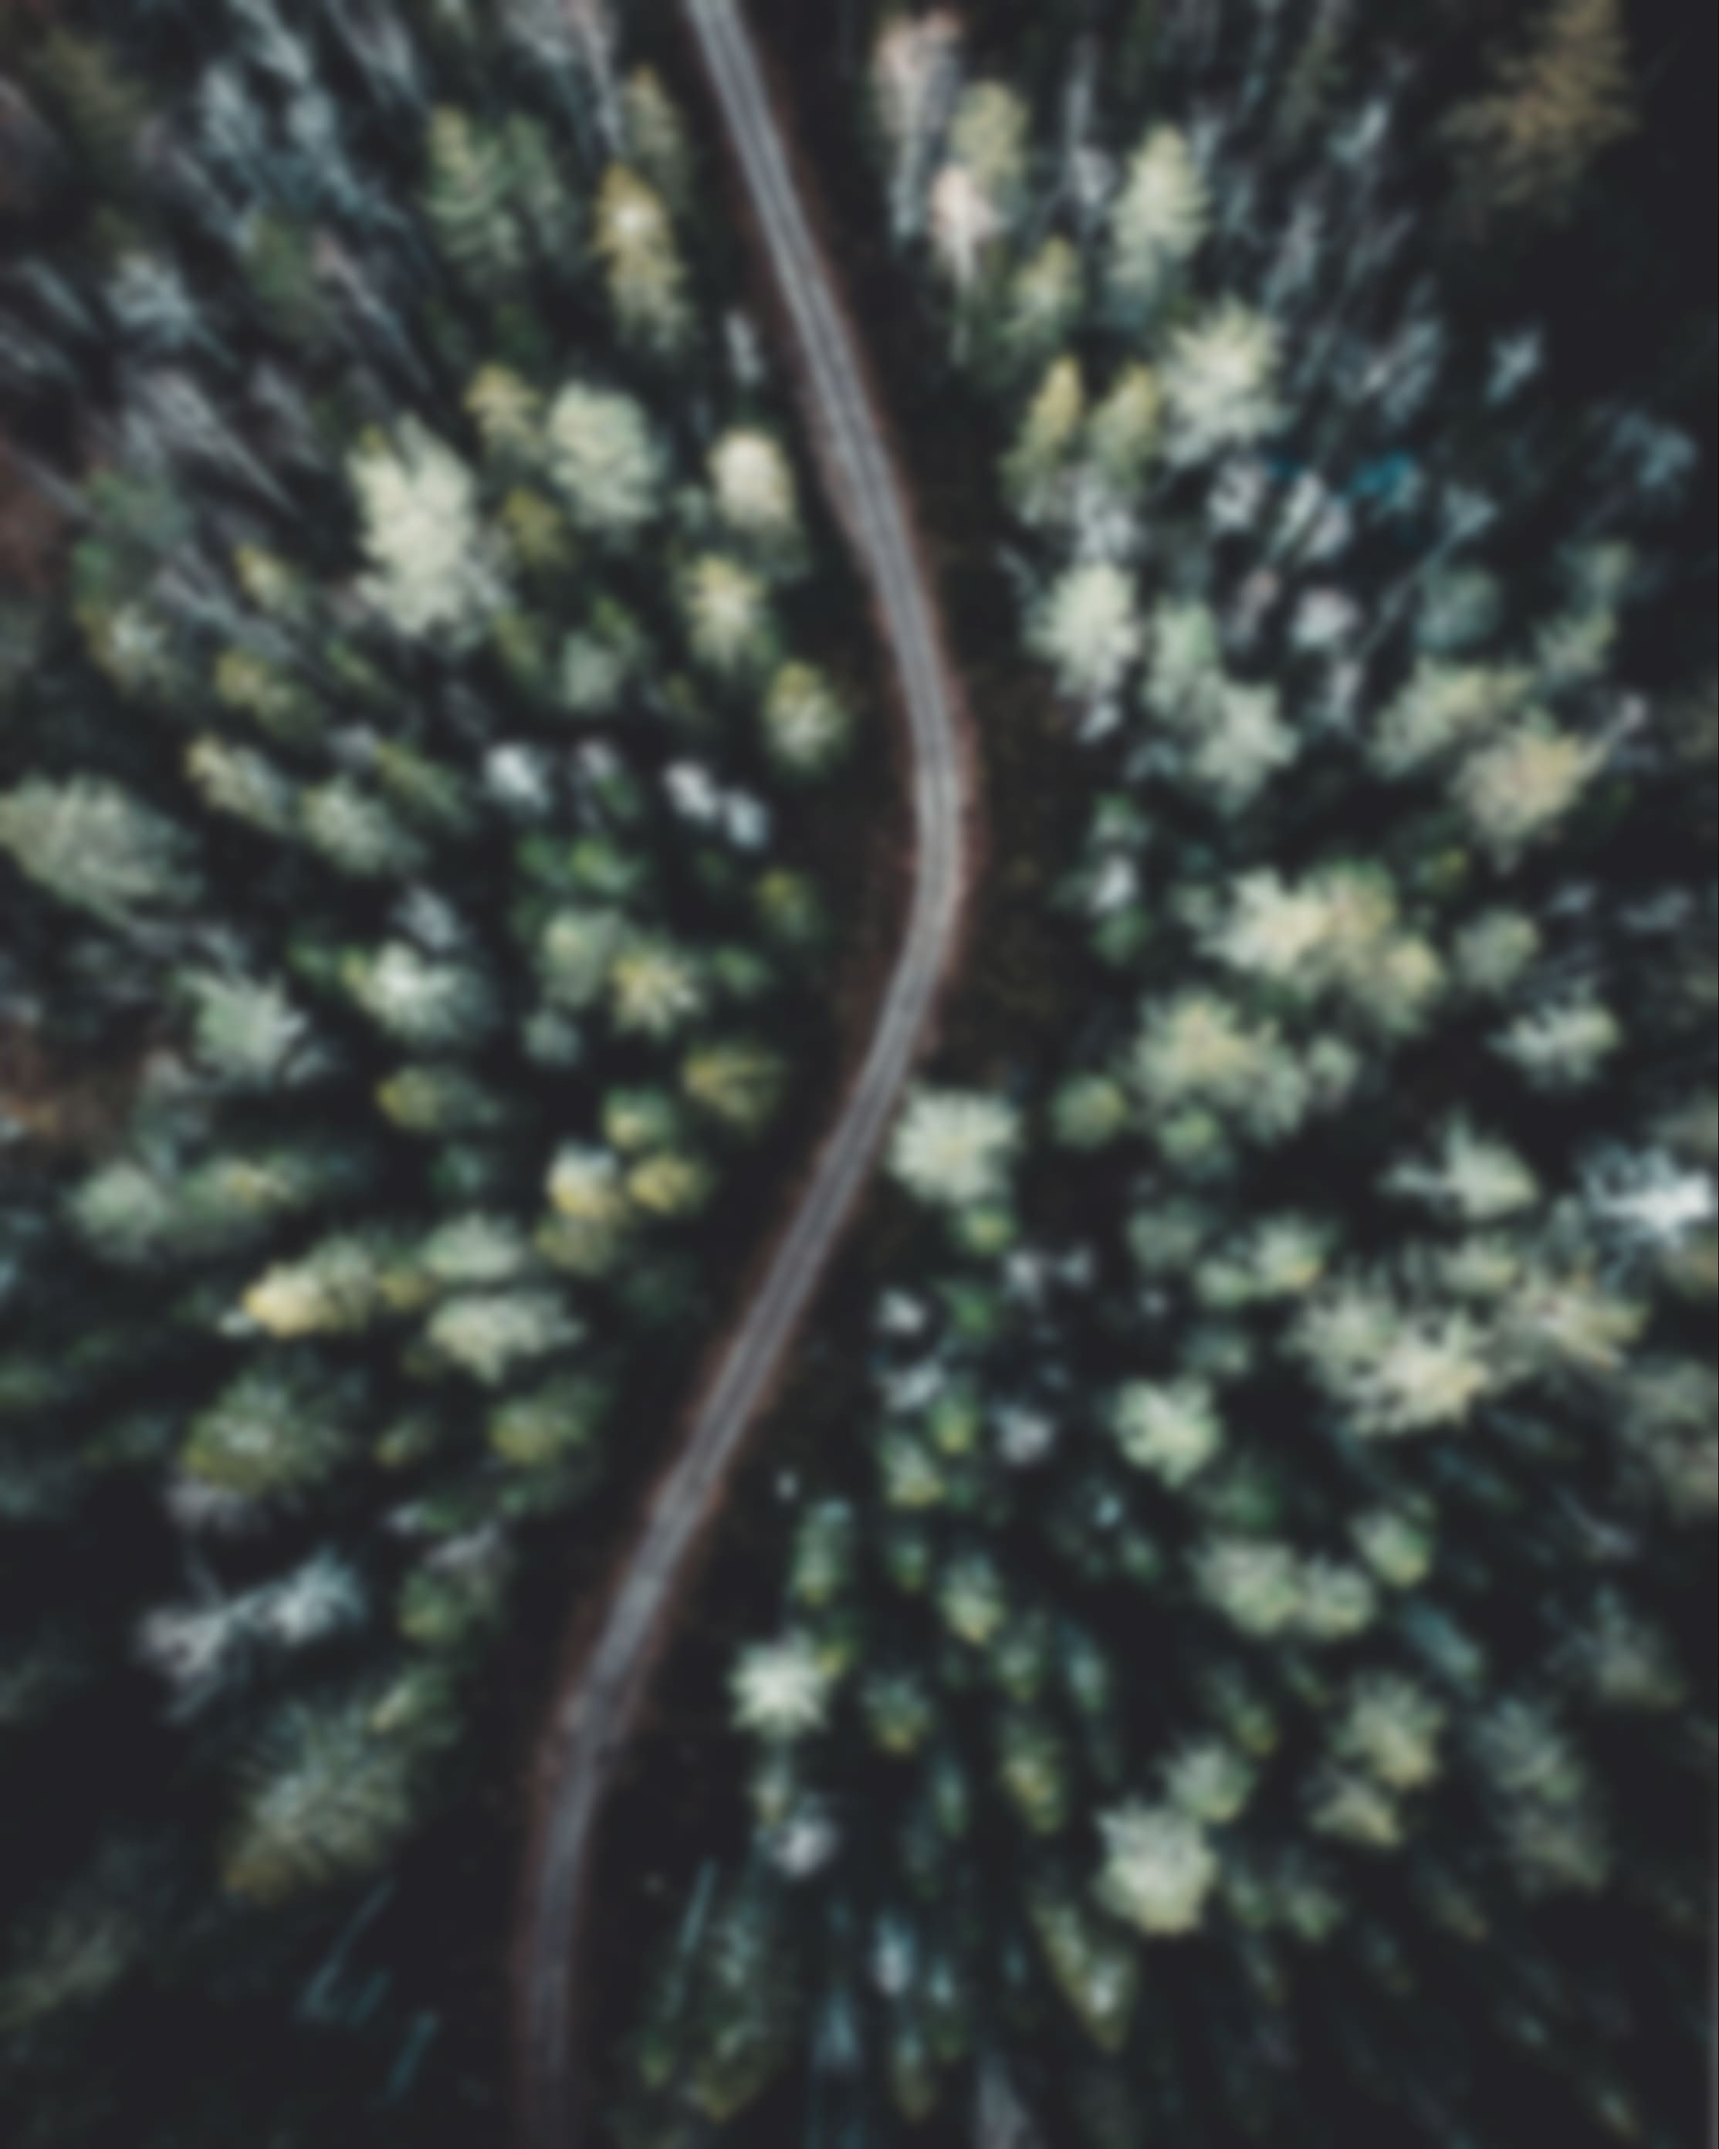
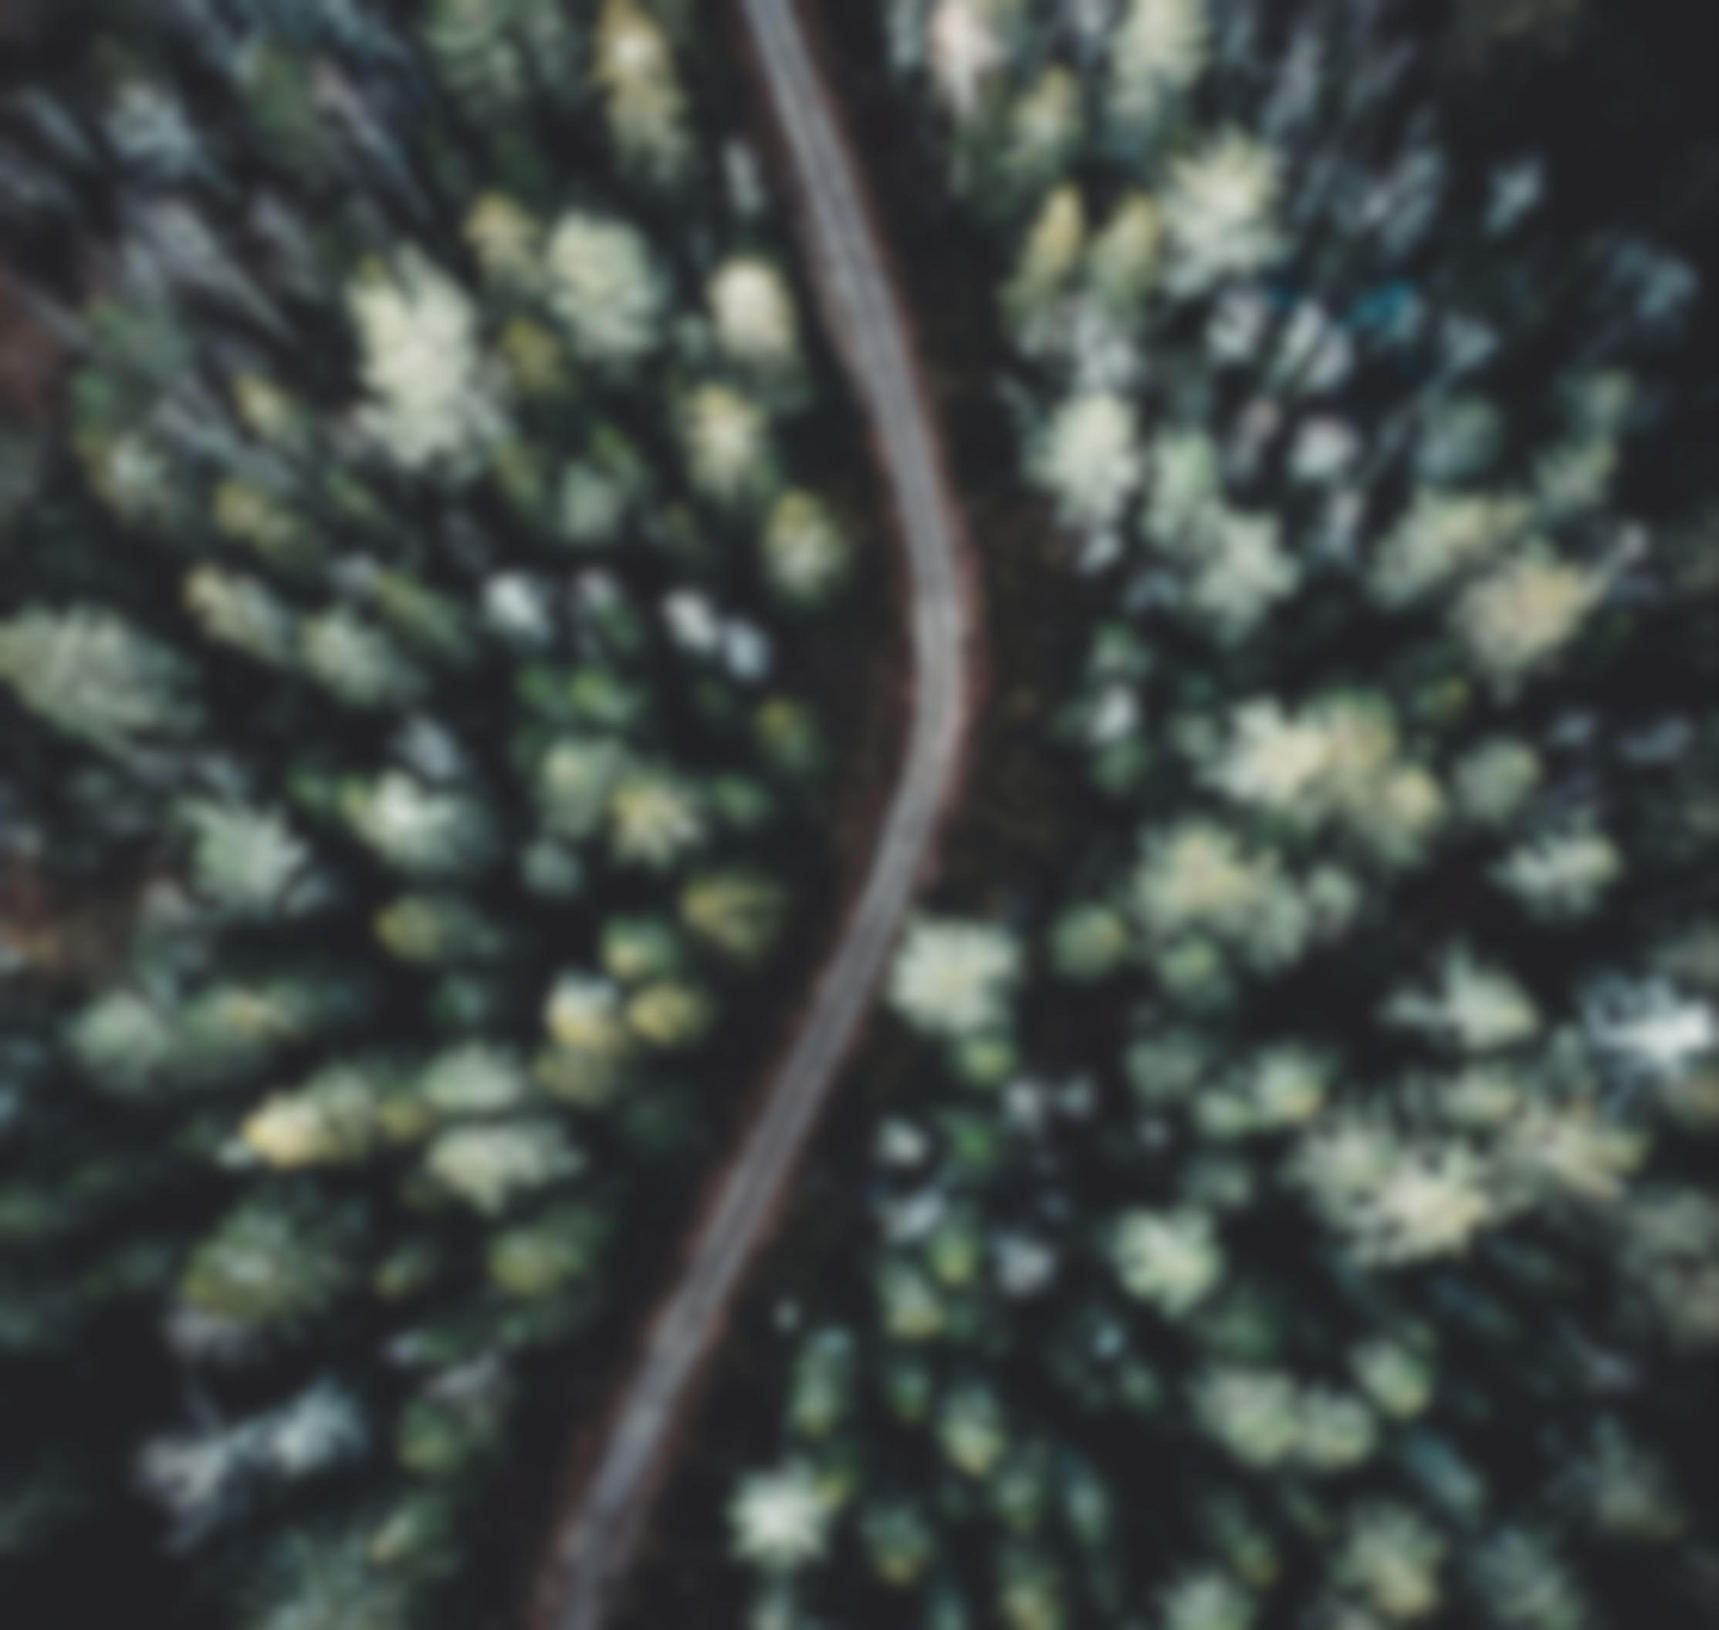
Fix image and responsiveness issues

diff --git a/src/index.scss b/src/index.scss
@@ -29,7 +29,7 @@
 	width: 100vw;
 	min-height: 100vh;
 	background-attachment: fixed;
-	background-image: url(/images/treesblur2-min.jpg);
+	background-image: url(/images/forest1.jpg);
 }
 
 section {

diff --git a/src/styles/home.scss b/src/styles/home.scss
@@ -3,7 +3,7 @@
 body {
 	#home {
 		.component-container {
-			min-height: 110vh;
+			min-height: 60em;
 		}
 	}
 
